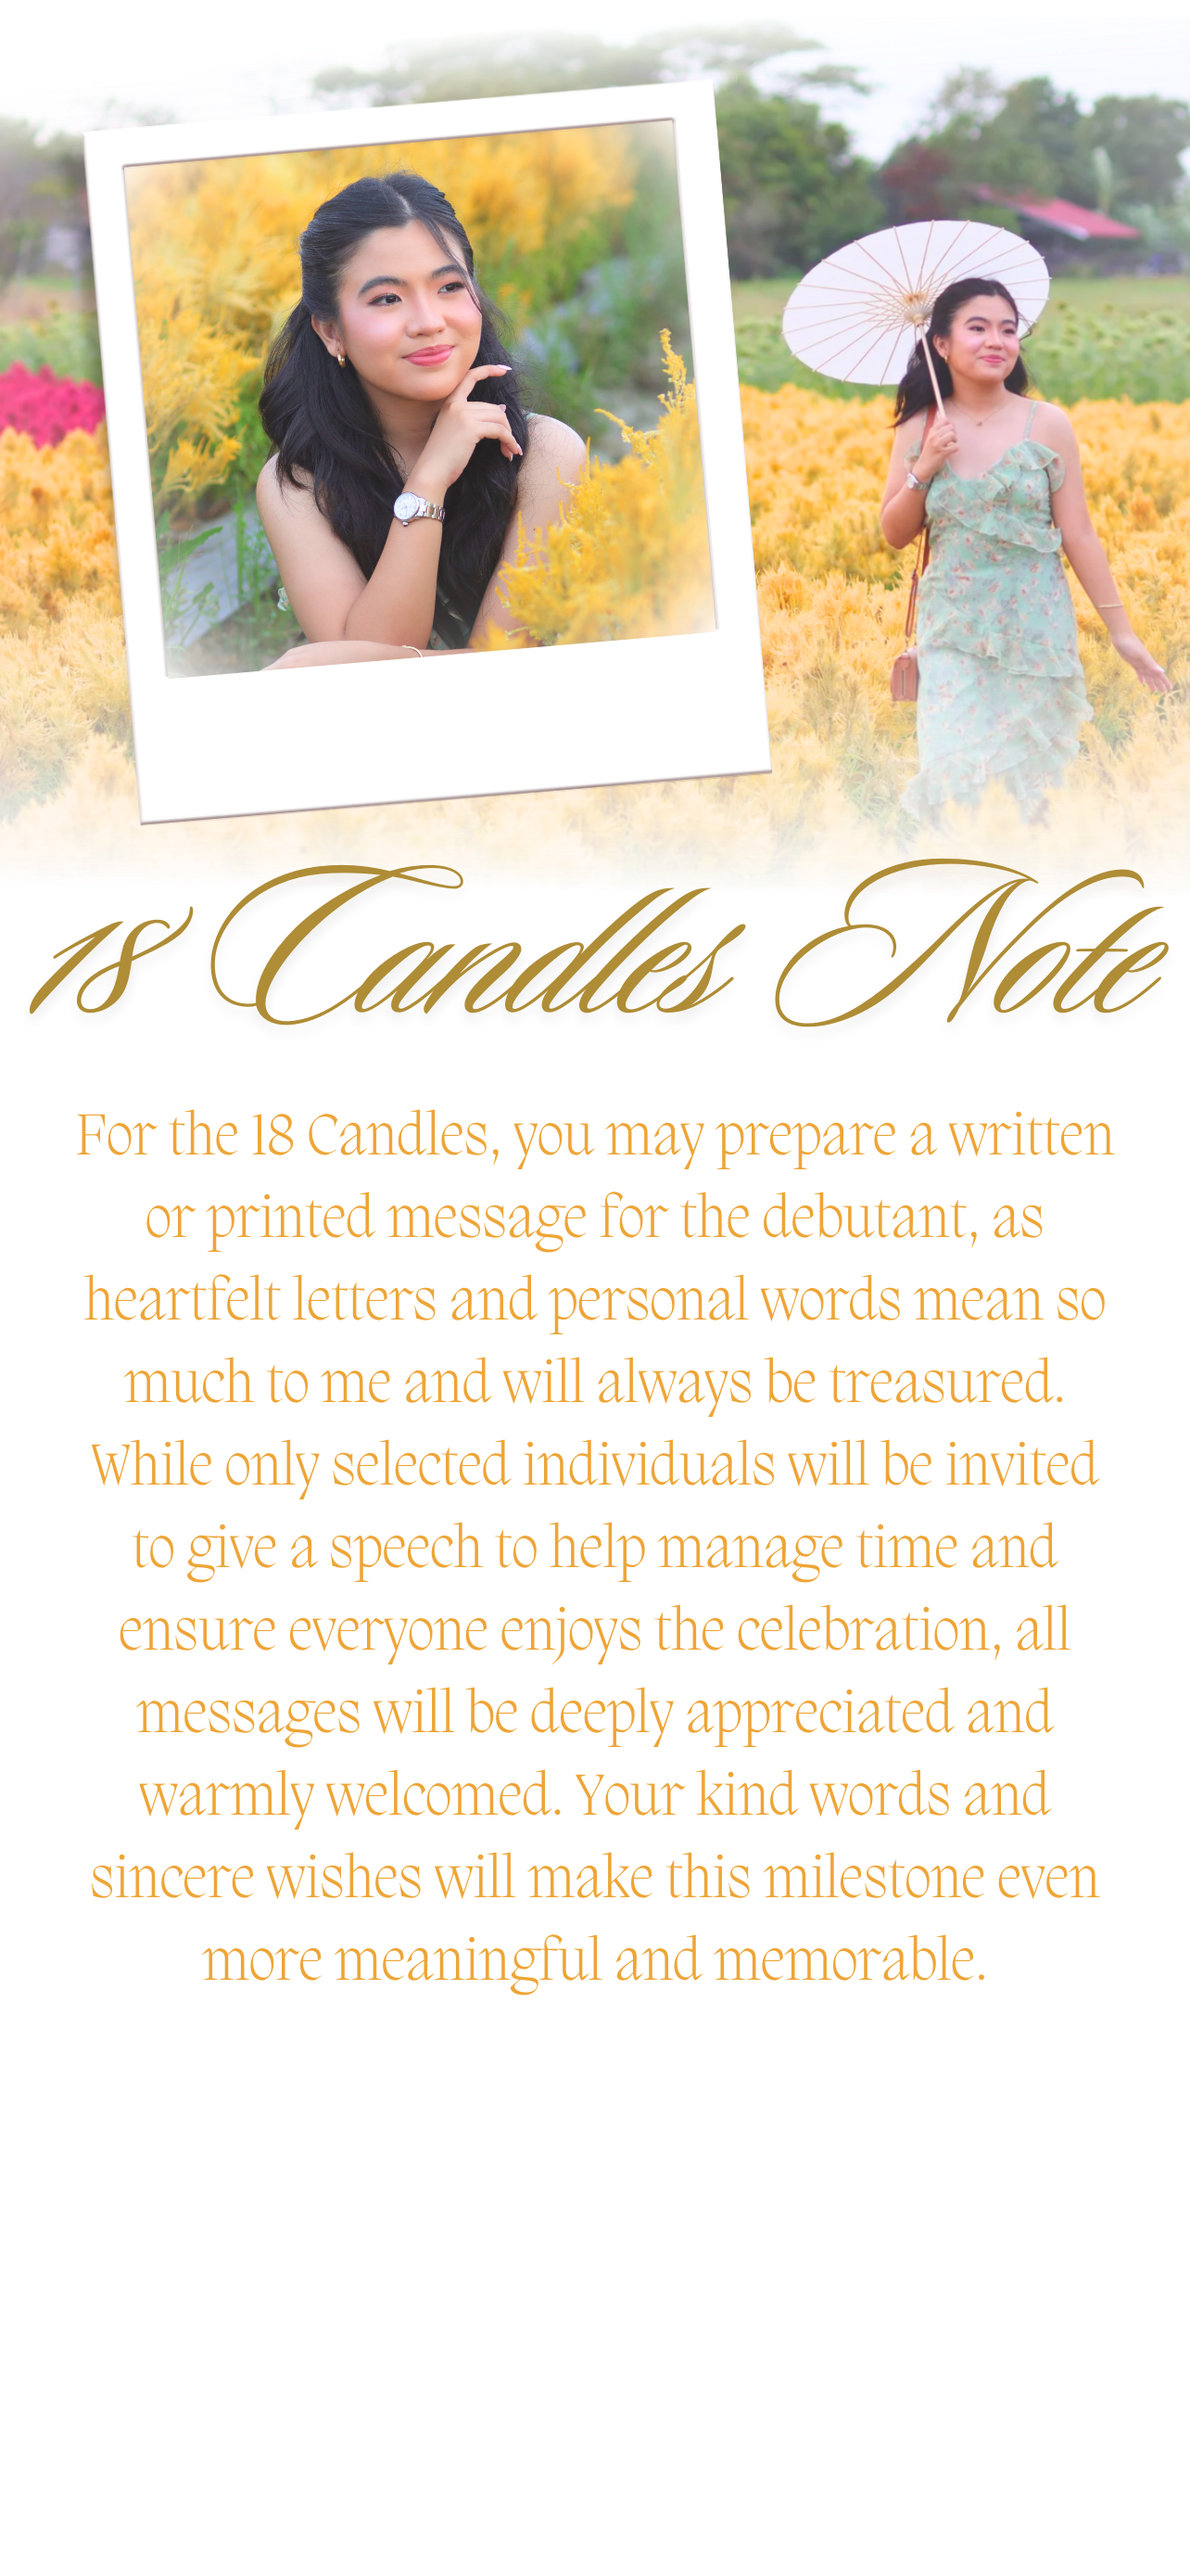
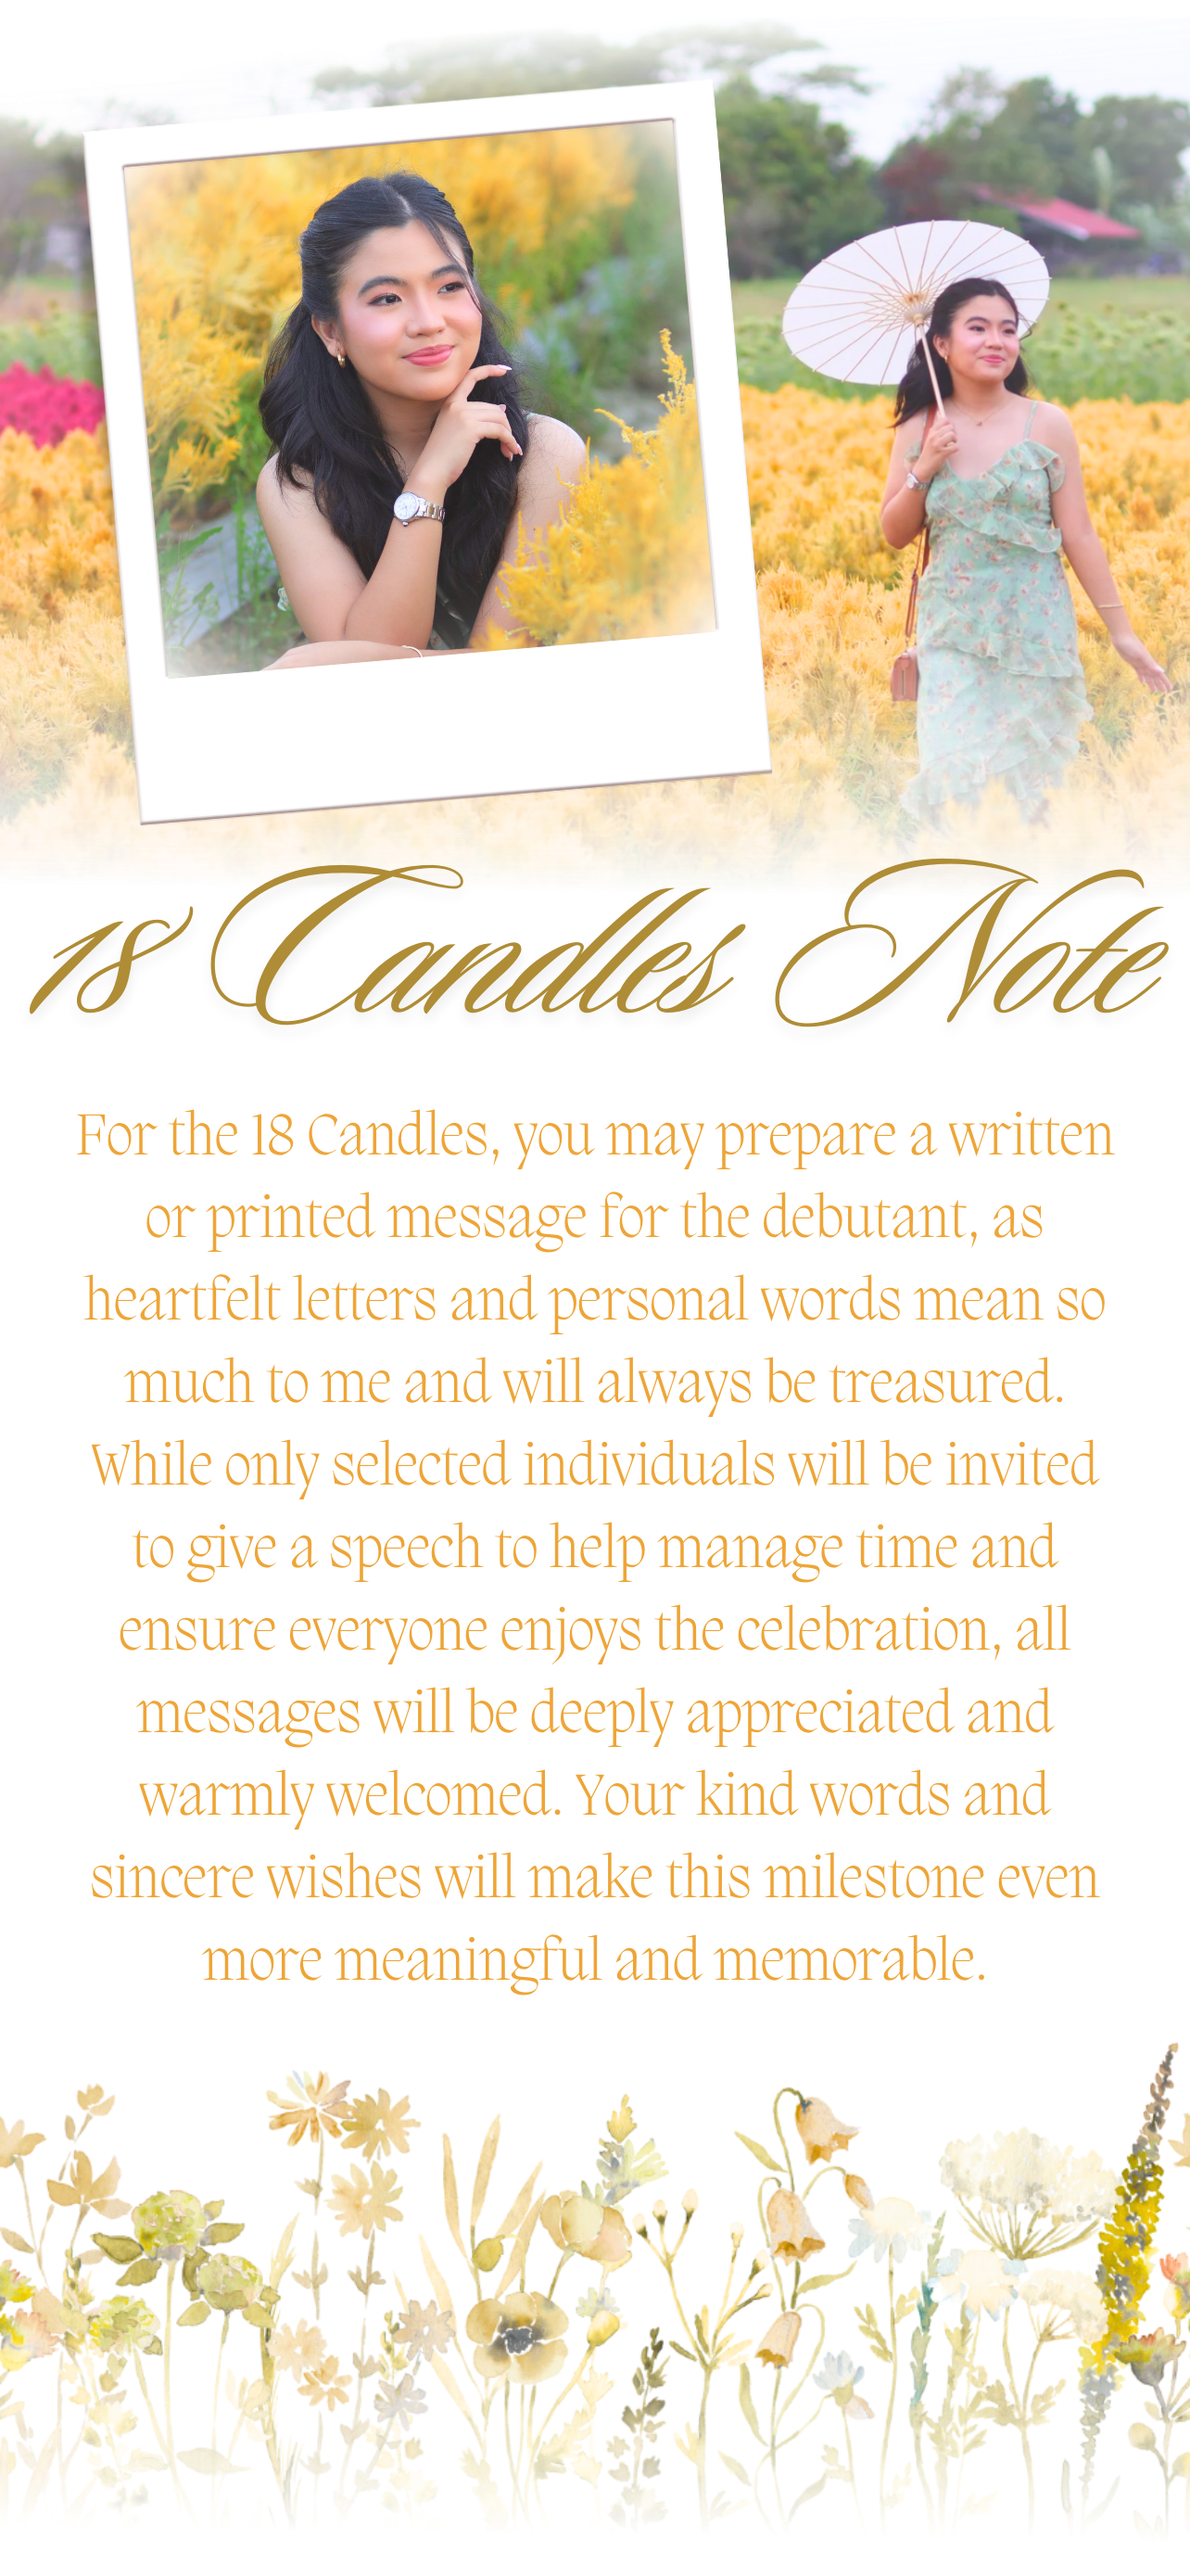
Final polish on system functionality

Changed region(s): [[0.0, 0.7739, 1.0, 0.9906]]

diff --git a/index.html b/index.html
@@ -88,7 +88,7 @@
 
         <!-- Candles Note -->
         <section class="png-section">
-            <img src="images/candlesnote.png" alt="Candles Note">
+            <img src="images/candlenotes.png" alt="Candles Note">
         </section>
 
         <!-- Blue Bills Gifts Note -->
@@ -101,6 +101,10 @@
             <img src="images/finestdetails.png" alt="Finest Details">
         </section>
 
+         <!-- Venue Location -->
+        <section class="venue-location-section">
+<iframe src="https://www.google.com/maps/embed?pb=!1m18!1m12!1m3!1d30756.19201411556!2d120.95961950273674!3d15.51001521086622!2m3!1f0!2f0!3f0!3m2!1i1024!2i768!4f13.1!3m3!1m2!1s0x3397291e959d1f3f%3A0x79f1aba16d95761e!2sD%26Y%20private%20resort!5e0!3m2!1sen!2sph!4v1771331682258!5m2!1sen!2sph" width="400" height="300" style="border:0;" allowfullscreen="" loading="lazy" referrerpolicy="no-referrer-when-downgrade"></iframe>        </section>
+
         <!-- Dress Code -->
         <section class="png-section">
             <img src="images/dresscode1.png" alt="Dress Code">
@@ -111,31 +115,73 @@
             <img src="images/dresscode2.png" alt="Dress Code 2">
         </section>
 
-        <!-- Venue Location -->
-        <section class="venue-location-section">
-            <!-- Map embed and location details will be added here -->
-        </section>
-
-        <!-- Timeline -->
-        <section class="png-section">
-            <img src="images/timeline.png" alt="Timeline">
-        </section>
+       
 
         <!-- RSVP Section -->
         <section class="png-section">
             <img src="images/rsvp.png" alt="RSVP">
         </section>
 
-        <!-- RSVP Button -->
-        <section class="rsvp-button-section">
-            <a href="#" class="rsvp-button" id="rsvp-form-link">RSVP Now</a>
-        </section>
+       <section class="rsvp-button-section">
+    <a href="https://docs.google.com/forms/d/e/1FAIpQLScnRBGVOkcwiqJRYIr4EyKMMV9xNMEep5OnWxcg2-WpRZxNsg/viewform" 
+       class="rsvp-button" 
+       id="rsvp-form-link" 
+       target="_blank">respond</a>
+</section>
 
         <!-- End Card -->
         <section class="png-section">
-            <img src="images/endcard.png" alt="End Card">
+            <img src="images/endcard1.png" alt="End Card1">
+        </section>
+
+            <section class="png-section">
+            <img src="images/endcard2.png" alt="End Card2">
+        </section>
+
+            <section class="png-section">
+            <img src="images/endcard3.png" alt="End Card3">
         </section>
         
+        <section class="png-section">
+            <img src="images/endcard4.png" alt="End Card4">
+        </section>
+
+        <section class="png-section">
+            <img src="images/endcard5.png" alt="End Card5">
+        </section>
+
+        <section class="png-section">
+            <img src="images/endcard6.png" alt="End Card6">
+        </section>
+<section class="png-section">
+    <img src="images/endcard7.png" alt="End Card7">
+</section>
+
+<section class="png-section">
+    <img src="images/endcard8.png" alt="End Card8">
+</section>
+
+<section class="png-section">
+    <img src="images/endcard9.png" alt="End Card9">
+</section>
+
+<section class="png-section">
+    <img src="images/endcard10.png" alt="End Card10">
+</section>
+
+<section class="png-section">
+    <img src="images/endcard11.png" alt="End Card11">
+</section>
+
+<section class="png-section">
+    <img src="images/endcard12.png" alt="End Card12">
+</section>
+
+ <!-- Timeline -->
+        <section class="png-section">
+            <img src="images/timeline.png" alt="Timeline">
+        </section>
+
     </main>
 
     <!-- PARALLAX FOREGROUND FLOWERS (Dynamically Generated) -->

diff --git a/style.css b/style.css
@@ -35,7 +35,7 @@ body.locked {
     left: 0;
     width: 100%;
     height: 100%;
-    z-index: 2;
+    z-index: 35;
     pointer-events: none;
     contain: paint;
 }
@@ -51,7 +51,7 @@ body.locked {
 
 
 body.is-open .flower {
-    opacity: 0.15;
+    opacity: 0;
 }
 
 /* --- PARALLAX FOREGROUND FLOWERS --- */
@@ -77,7 +77,7 @@ body.is-open .flower {
 
 
 body.is-open .foreground-flower {
-    opacity: 0.25;
+    opacity: 0;
 }
 
 /* --- ENVELOPE OVERLAY --- */
@@ -457,7 +457,7 @@ body.is-open .content-wrapper {
     transform: translateY(0) scale(1);
 }
 
-/* --- RSVP BUTTON SECTION --- */
+/* --- RSVP BUTTON SECTION (Unchanged) --- */
 .rsvp-button-section {
     position: relative;
     width: 100vw;
@@ -476,24 +476,65 @@ body.is-open .content-wrapper {
     transform: translateY(0) scale(1);
 }
 
+/* --- RSVP BUTTON SECTION (Unchanged) --- */
+.rsvp-button-section {
+    position: relative;
+    width: 100vw;
+    display: flex;
+    justify-content: center;
+    align-items: center;
+    padding: 60px 20px;
+    margin: 0;
+    opacity: 0;
+    transform: translateY(60px) scale(0.95);
+    transition: all 1.1s cubic-bezier(0.34, 1.56, 0.64, 1);
+}
+
+.rsvp-button-section.visible {
+    opacity: 1;
+    transform: translateY(0) scale(1);
+}
+
+/* --- UPDATED BUTTON STYLES --- */
 .rsvp-button {
     display: inline-block;
-    padding: 18px 50px;
-    background: linear-gradient(135deg, #FF9DBB 0%, #E88D83 100%);
-    color: white;
+    /* Spacing similar to the reference image */
+    padding: 12px 50px;
+    
+    /* White background */
+    background-color: #ffffff;
+    
+    /* Thin dusty-rose border */
+    border: 1px solid #8868b9;
+    
+    /* Text color matches border */
+    color: #8868b9;
+    
     text-decoration: none;
-    border-radius: 50px;
+    
+    /* 0px radius makes it a sharp rectangle */
+    border-radius: 0px; 
+    
+    /* Using your existing font as it fits the style perfectly */
     font-family: 'Bodoni Moda', serif;
-    font-size: 1.2rem;
-    font-weight: 600;
-    letter-spacing: 2px;
-    box-shadow: 0 8px 25px rgba(255, 157, 187, 0.3);
-    transition: all 0.4s cubic-bezier(0.34, 1.56, 0.64, 1);
+    font-size: 1.4rem;
+    font-weight: 500;
+    
+    /* Lowercase text generally looks better with letter spacing */
+    letter-spacing: 1px;
+    
+    /* Smooth hover transition */
+    transition: all 0.3s ease;
 }
 
 .rsvp-button:hover {
+    /* On hover: swap colors (Solid pink background, white text) */
+    background-color: #8868b9;
+    color: #ffffff;
+    
+    /* Subtle lift up without rotation */
     transform: translateY(-3px);
-    box-shadow: 0 12px 35px rgba(255, 157, 187, 0.5);
+    box-shadow: 0 5px 15px rgba(184, 107, 119, 0.2);
 }
 
 .rsvp-button:active {
